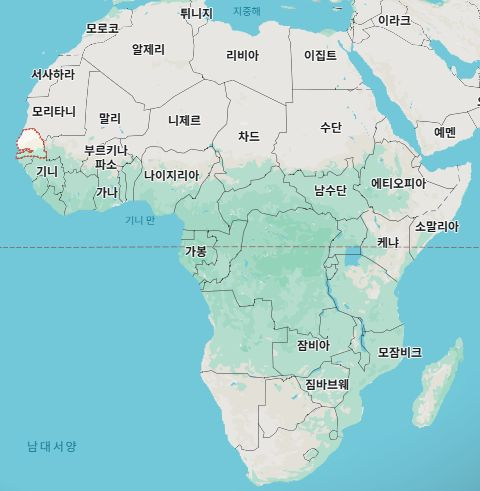
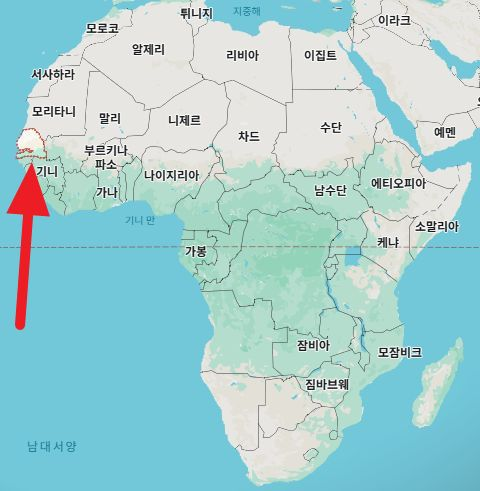
Update 블로그 글 “세네갈-vs-한국-크기-비교-인구-시차-여행-정보-2026-월드컵-아프리카-강호”

Changed region(s): [[0.0, 0.336, 0.125, 0.6721]]

diff --git a/src/content/blog/세네갈-vs-한국-크기-비교-인구-시차-여행-정보-2026-월드컵-아프리카-강호.md b/src/content/blog/세네갈-vs-한국-크기-비교-인구-시차-여행-정보-2026-월드컵-아프리카-강호.md
@@ -6,7 +6,7 @@ entry_slug: senegal-vs-korea-size-population-travel
 description: 아프리카 대륙 최서단, 2002 한일 월드컵에서 디펜딩 챔피언 프랑스를 꺾은 세네갈. 우리나라의 약 2배 면적에
   1,700만 명이 사는 이 나라를 한국과 숫자로 비교해 본다.
 ---
-2026 월드컵을 보다 보면, 아프리카 팀이 나올 때마다 '저 나라 어디 있더라?' 하는 생각이 드는 게 솔직한 심정이다. 그중 세네갈은 좀 특별히 눈에 띈다. 바로 우리나라가 4강 신화를 썼던 **2002 한일 월드컵에서, 당시 디펜딩 챔피언이었던 프랑스를 조별리그에서 격파하며 8강까지 간 팀**이기 때문이다. 그 대회를 함께 뛴 셈이니 남다른 감이 있다. 이번 기회에 세네갈이 어디에, 얼마나 큰 나라인지 한국과 제대로 비교해 보자.
+우리나라가 4강 신화를 썼던 **2002 한일 월드컵에서, 당시 디펜딩 챔피언이었던 프랑스를 조별리그에서 격파하며 8강까지 간 팀은?** 바로 세네갈이다. 2026년 월드컵에도 진출한 세네갈에 대해서 이번 기회에 알아보려고 한다. 세네갈이 어디에 있는지, 얼마나 큰 나라인지 한국과 제대로 비교해 보자.
 
 ## 세네갈 위치/크기
 
